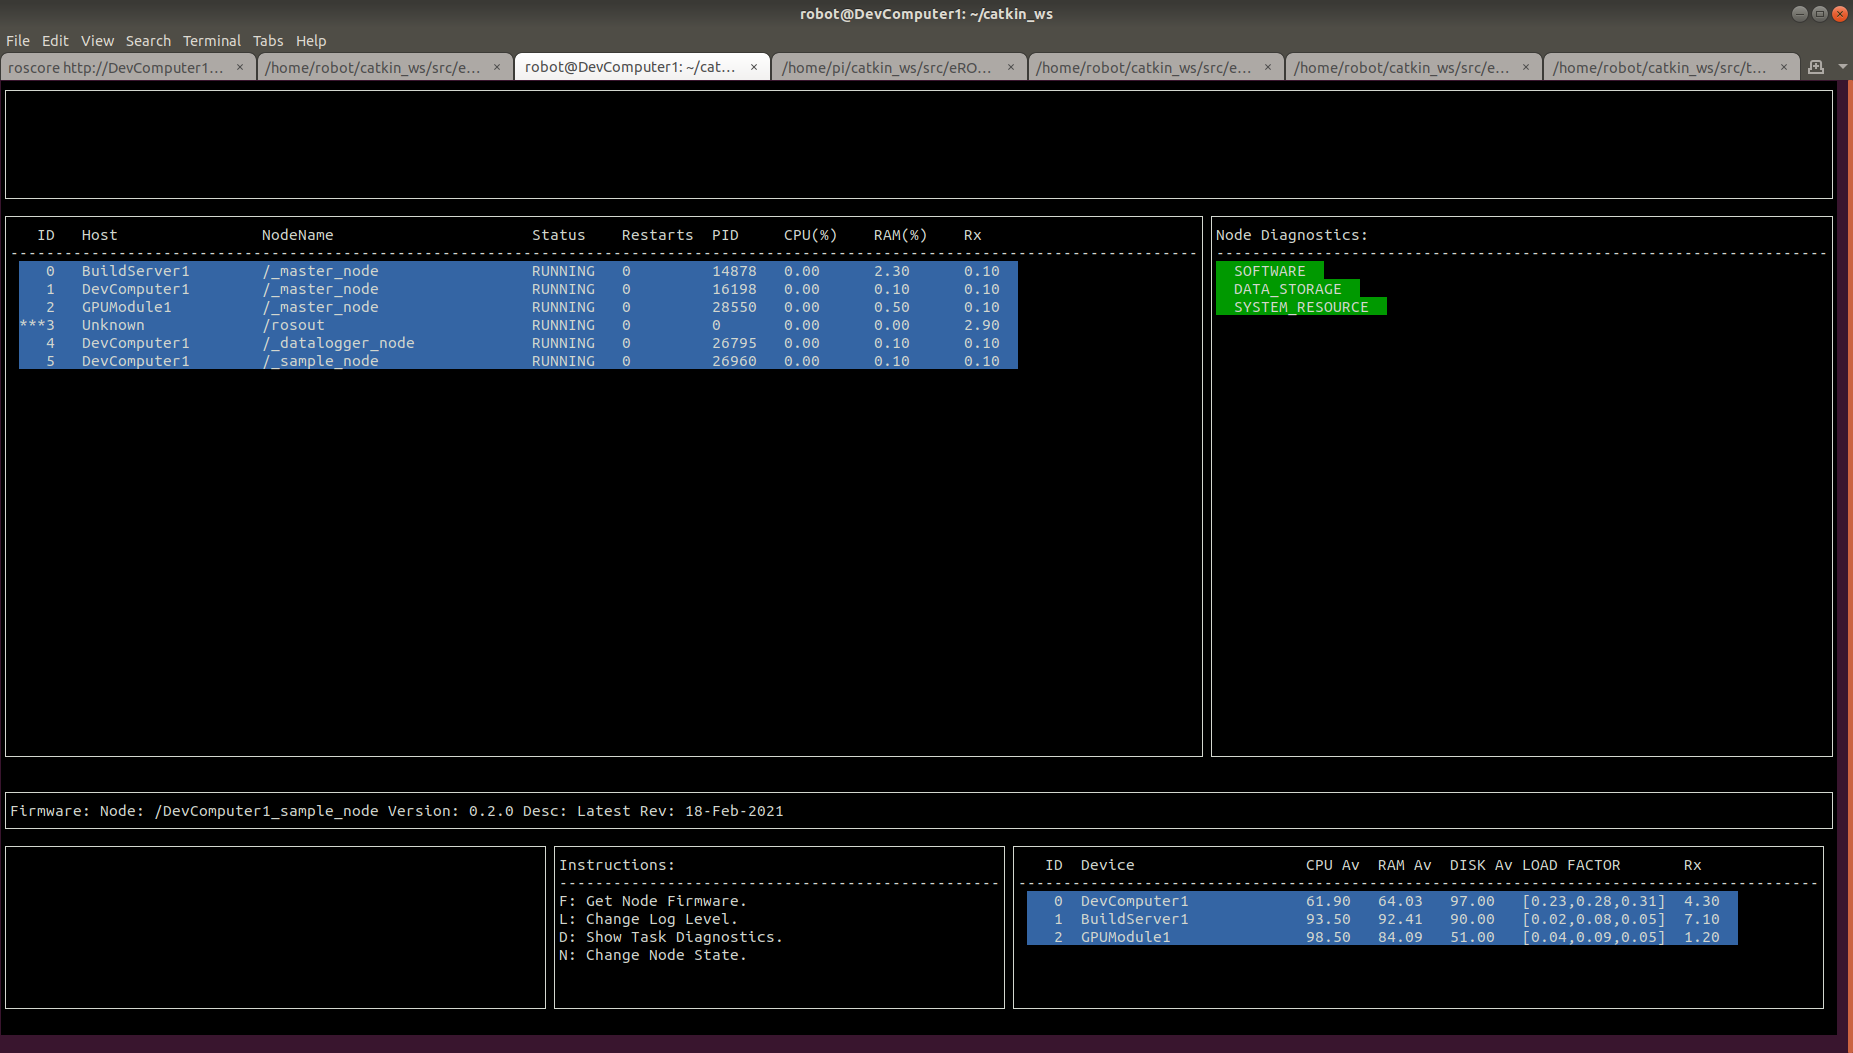
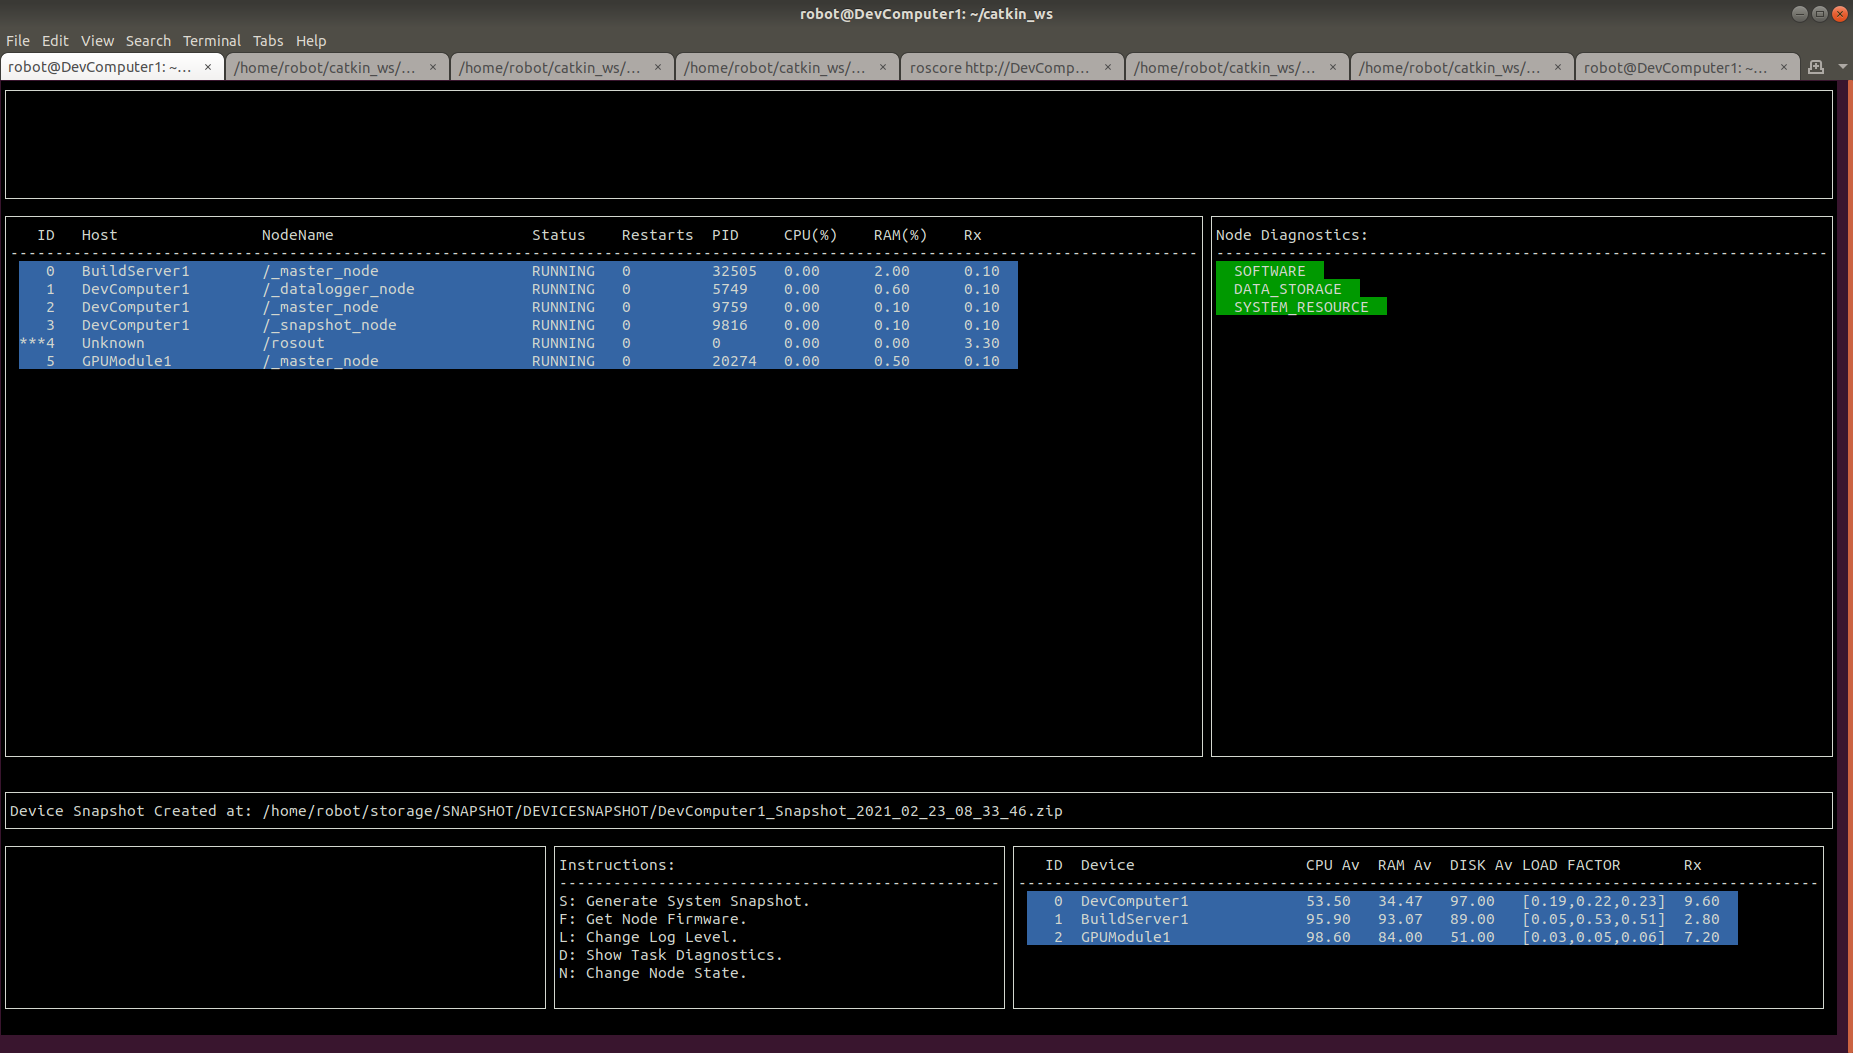
Updates.

diff --git a/nodes/SystemMonitor/SystemMonitorProcess.cpp b/nodes/SystemMonitor/SystemMonitorProcess.cpp
@@ -361,17 +361,7 @@ std::string SystemMonitorProcess::get_deviceheader() {
 Diagnostic::DiagnosticDefinition SystemMonitorProcess::update_instructionwindow(
     std::map<std::string, WindowManager>::iterator window_it) {
     Diagnostic::DiagnosticDefinition diag = diagnostic_helper.get_root_diagnostic();
-    int key_pressed = wgetch(window_it->second.get_window_reference());
-    if ((key_pressed == KEY_q) || (key_pressed == KEY_Q)) {
-        kill_me = true;
-    }
-    if ((key_pressed == KEY_s) || (key_pressed == KEY_S)) {
-        set_message_text("Requesting System Snapshot...", Level::Type::INFO);
-        eros::command command;
-        command.stamp = ros::Time::now();
-        command.Command = (uint16_t)Command::Type::GENERATE_SNAPSHOT;
-        command_pub.publish(command);
-    }
+
     if (select_task_mode == true) {
         std::vector<std::string> instruction_string;
         instruction_string.push_back("S: Generate System Snapshot.");
@@ -541,6 +531,13 @@ Diagnostic::DiagnosticDefinition SystemMonitorProcess::update_taskwindow(
     int key_pressed = wgetch(window_it->second.get_window_reference());
     if ((key_pressed == KEY_q) || (key_pressed == KEY_Q)) {
         kill_me = true;
+    }
+    else if ((key_pressed == KEY_s) || (key_pressed == KEY_S)) {
+        set_message_text("Requesting System Snapshot...", Level::Type::INFO);
+        eros::command command;
+        command.stamp = ros::Time::now();
+        command.Command = (uint16_t)Command::Type::GENERATE_SNAPSHOT;
+        command_pub.publish(command);
     }
     else if (key_pressed == KEY_UP) {
         if (select_task_mode == true) {

diff --git a/nodes/SnapshotNode/SnapshotNode.cpp b/nodes/SnapshotNode/SnapshotNode.cpp
@@ -167,6 +167,10 @@ Diagnostic::DiagnosticDefinition SnapshotNode::finish_initialization() {
     }
     std::string commandstate_topic = "/SystemCommandState";
     commandstate_pub = n->advertise<eros::command_state>(commandstate_topic, 1);
+    diag = process->update_diagnostic(Diagnostic::DiagnosticType::COMMUNICATIONS,
+                                      Level::Type::INFO,
+                                      Diagnostic::Message::NOERROR,
+                                      "Running");
     diag = process->update_diagnostic(Diagnostic::DiagnosticType::DATA_STORAGE,
                                       Level::Type::INFO,
                                       Diagnostic::Message::NOERROR,

diff --git a/nodes/SnapshotNode/test/test_SnapshotProcess.cpp b/nodes/SnapshotNode/test/test_SnapshotProcess.cpp
@@ -54,7 +54,7 @@ TEST(BasicTest, TestOperation_Master) {
         logger->log_diagnostic(diag_list.at(i));
         EXPECT_TRUE(diag_list.at(i).level <= Level::Type::NOTICE);
     }
-    EXPECT_TRUE(tester->get_devicesnapshot_state() == SnapshotProcess::SnapshotState::COMPLETE);
+    EXPECT_TRUE(tester->get_devicesnapshot_state() == SnapshotProcess::SnapshotState::NOTRUNNING);
     delete logger;
     delete tester;
 }
